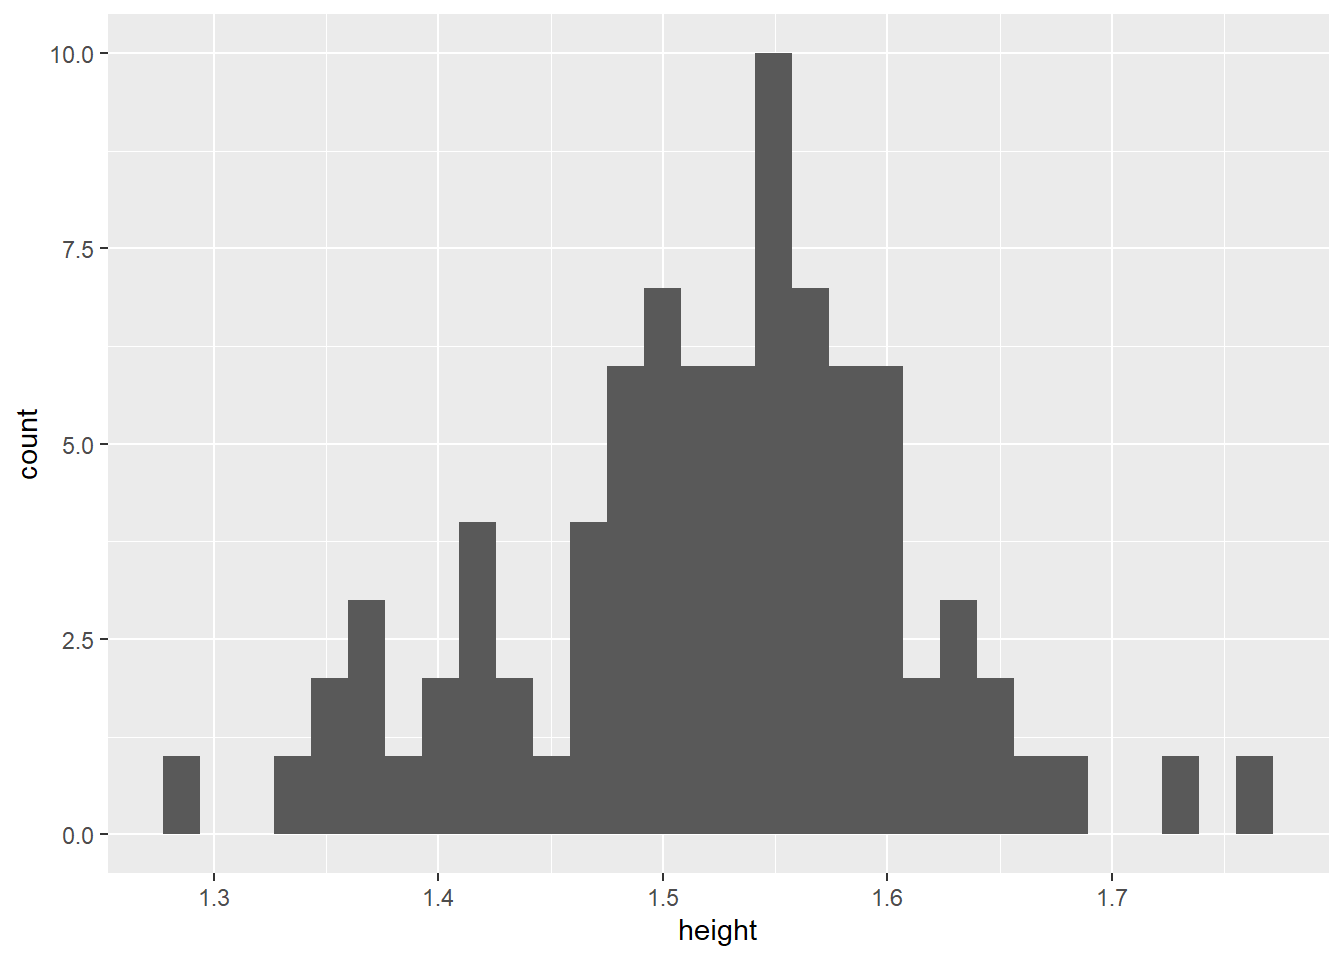
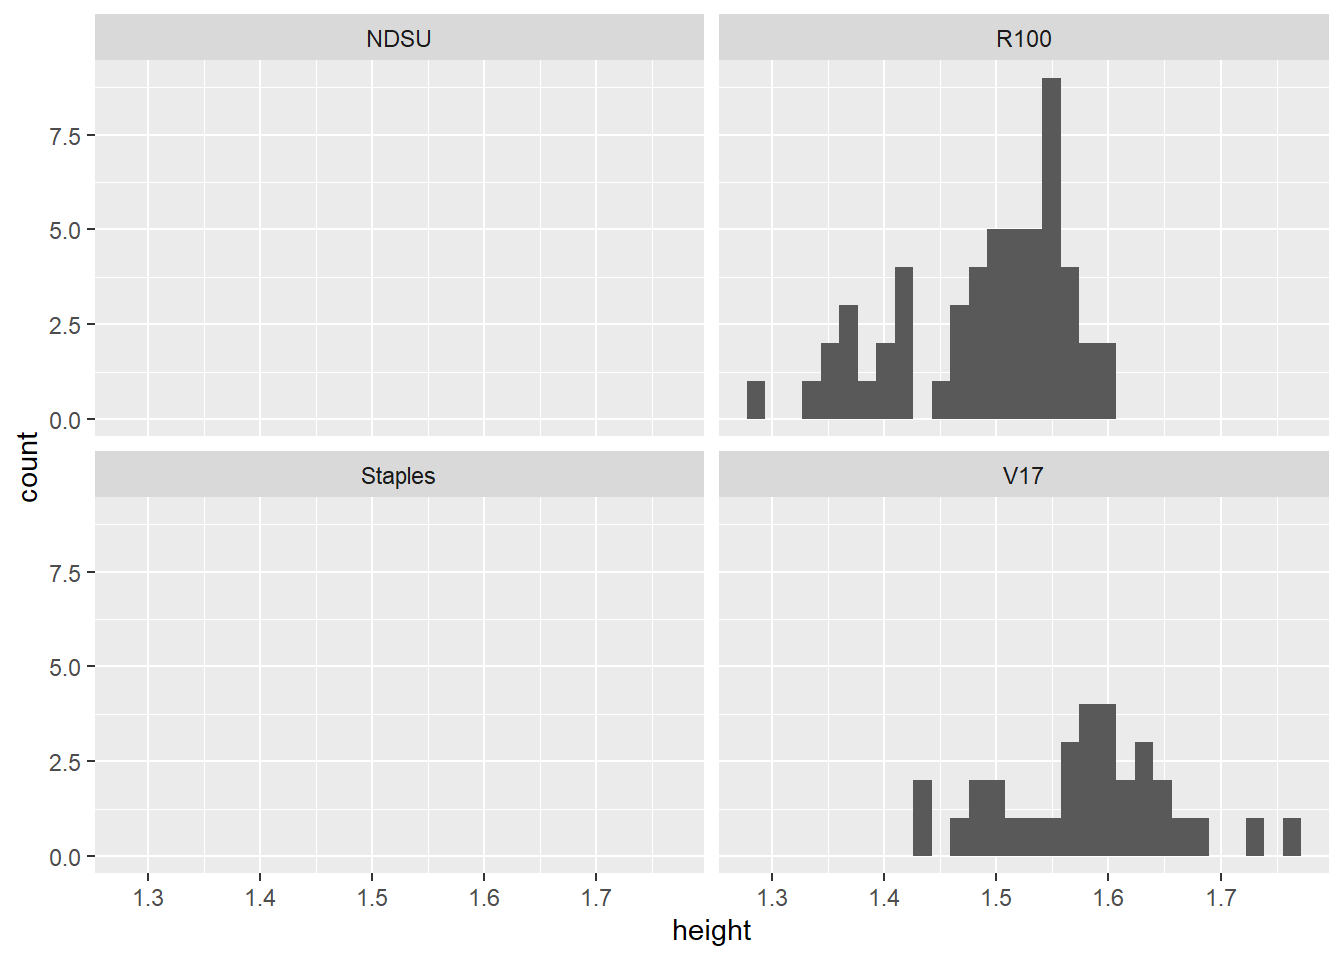
Done with lodging and plant height. Big takeaway is we don't have a lot of data. Lodging happened in R100 in year 3 and we also took plant height, finding a negative relationship between height and lodging as nrate increased. We also had height and lodging data for V17 in its second and third year, 

diff --git a/nrate_draft.html b/nrate_draft.html
@@ -257,12 +257,24 @@ height  -0.4993655  1.0000000</code></pre>
 </section>
 <section id="beyond-r100" class="level2">
 <h2 class="anchored" data-anchor-id="beyond-r100">Beyond R100</h2>
-<p>How was plant height distributed?</p>
+<p>We only have height data for V17 in stand ages 2 and 3 besides the R100 in stand age 3.</p>
 <div class="cell">
 <div class="cell-output-display">
 <p><img src="nrate_draft_files/figure-html/unnamed-chunk-18-1.png" class="img-fluid" width="672"></p>
 </div>
 </div>
+<p>alright, we only have two sites with plant height data</p>
+<div class="cell">
+<div class="cell-output cell-output-stdout">
+<pre><code>Analysis of Variance Table
+
+Response: height
+          Df   Sum Sq  Mean Sq F value Pr(&gt;F)
+n.total    1 0.000056 0.000056  0.0092  0.924
+Residuals 30 0.181829 0.006061               </code></pre>
+</div>
+</div>
+<p>We cannot reject Ho that plant height is the same across n rates</p>
 </section>
 </section>
 <section id="yield" class="level1">
